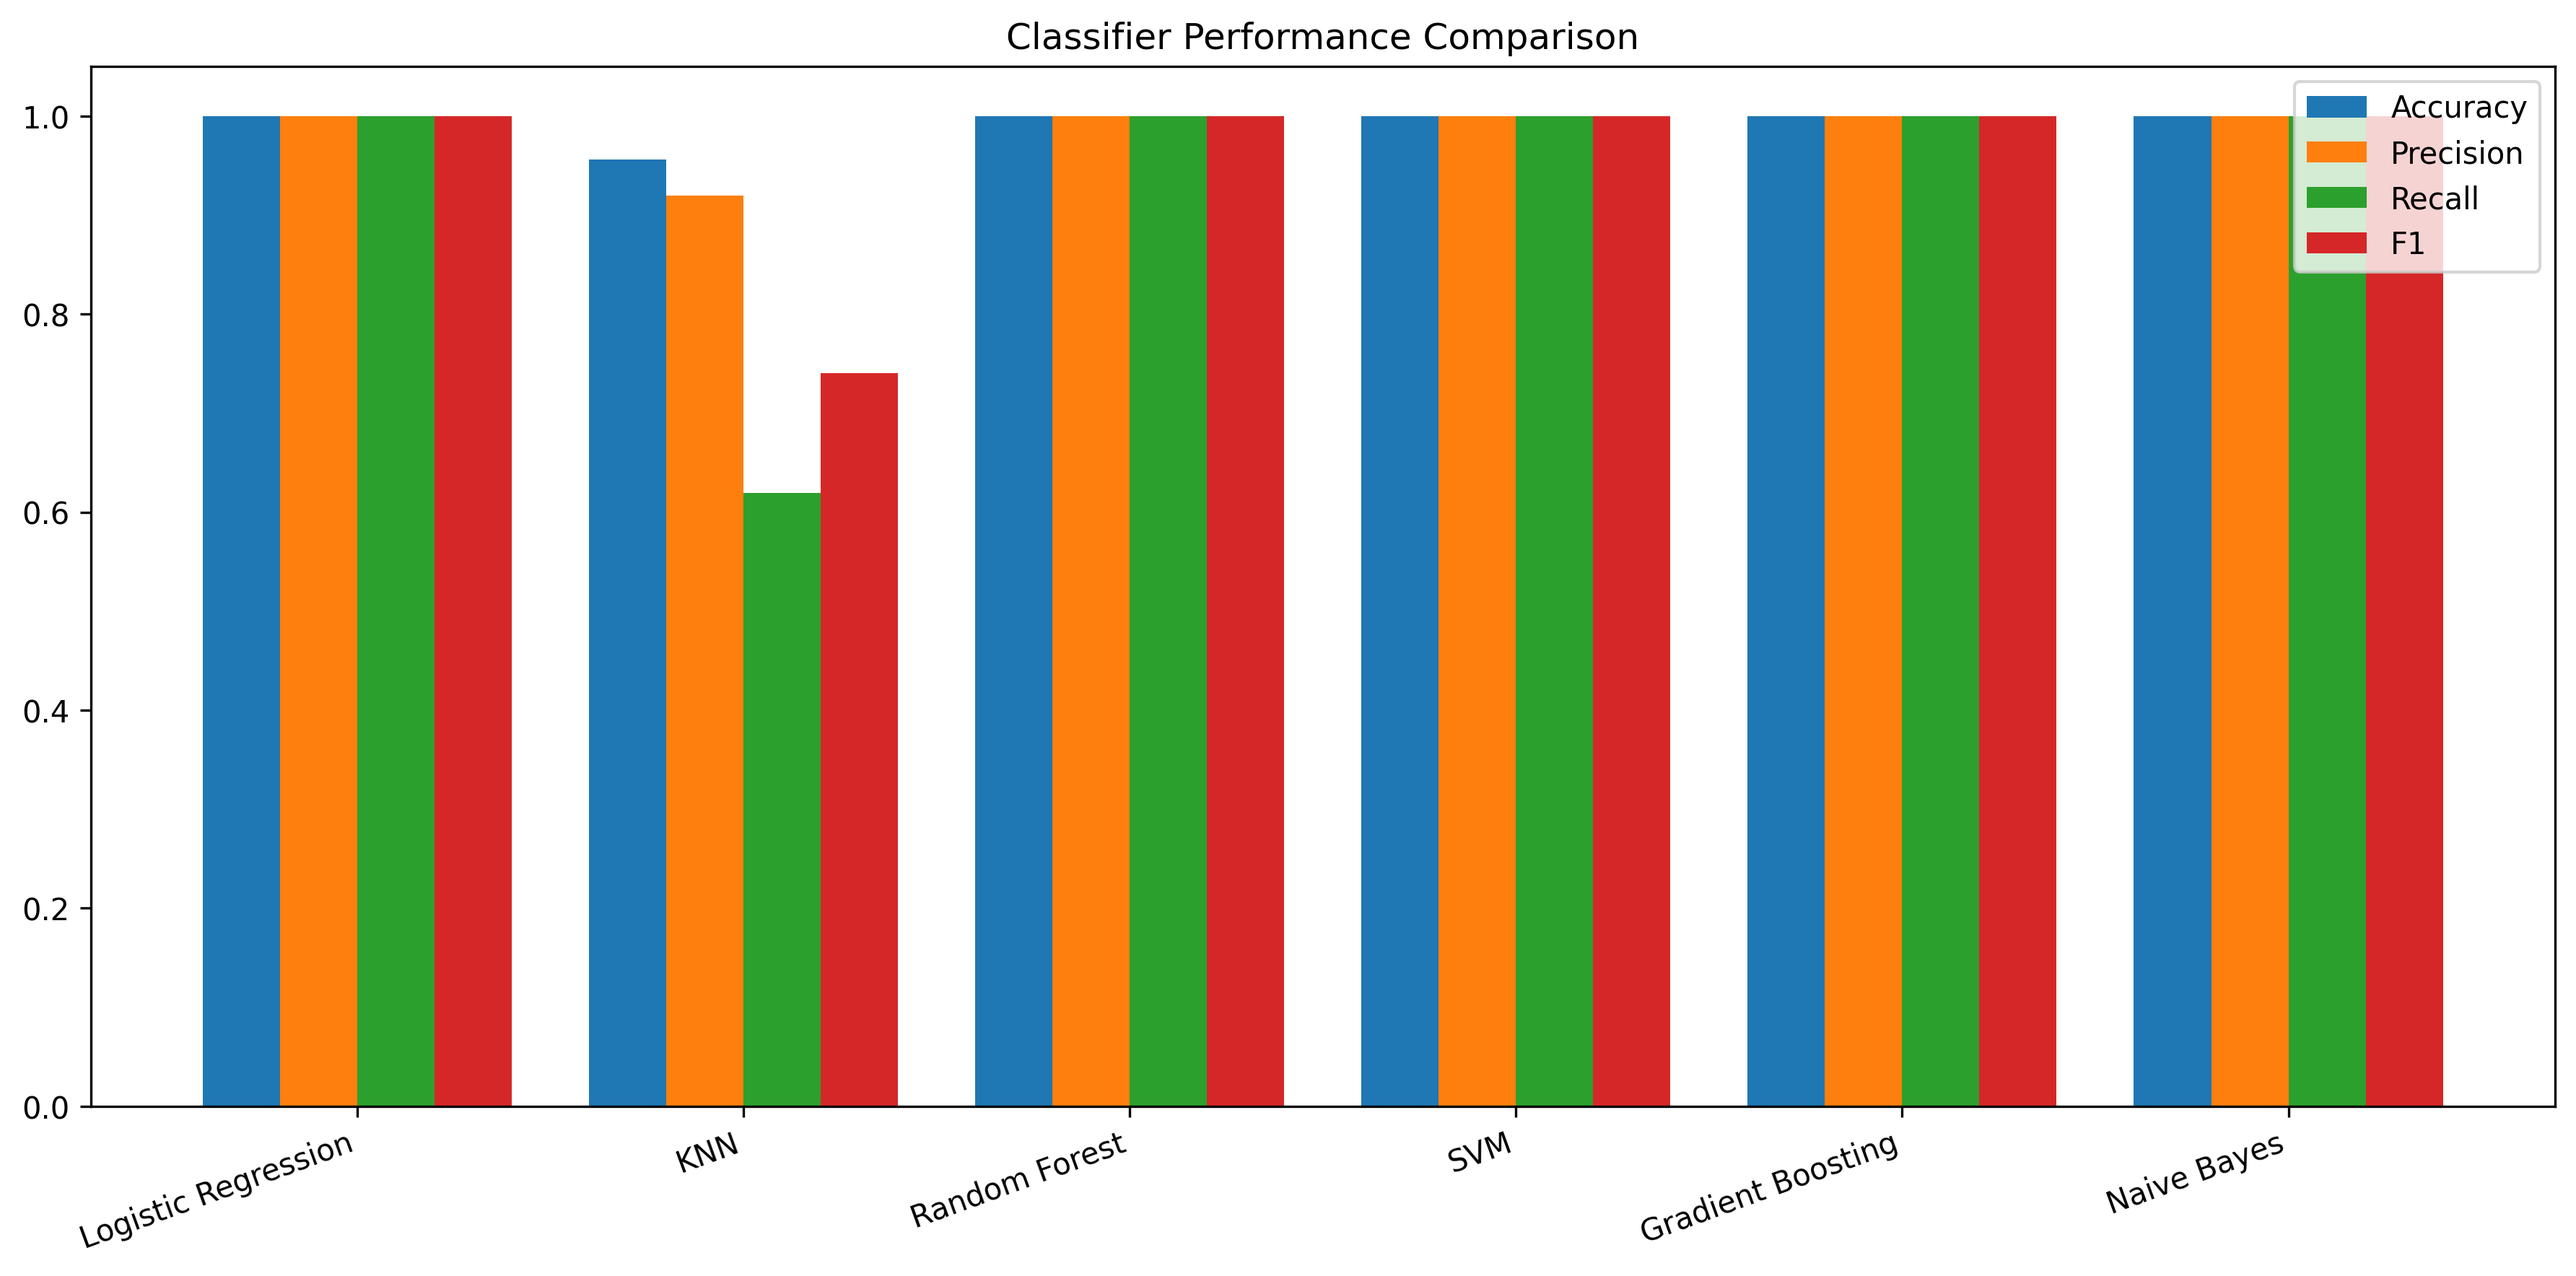
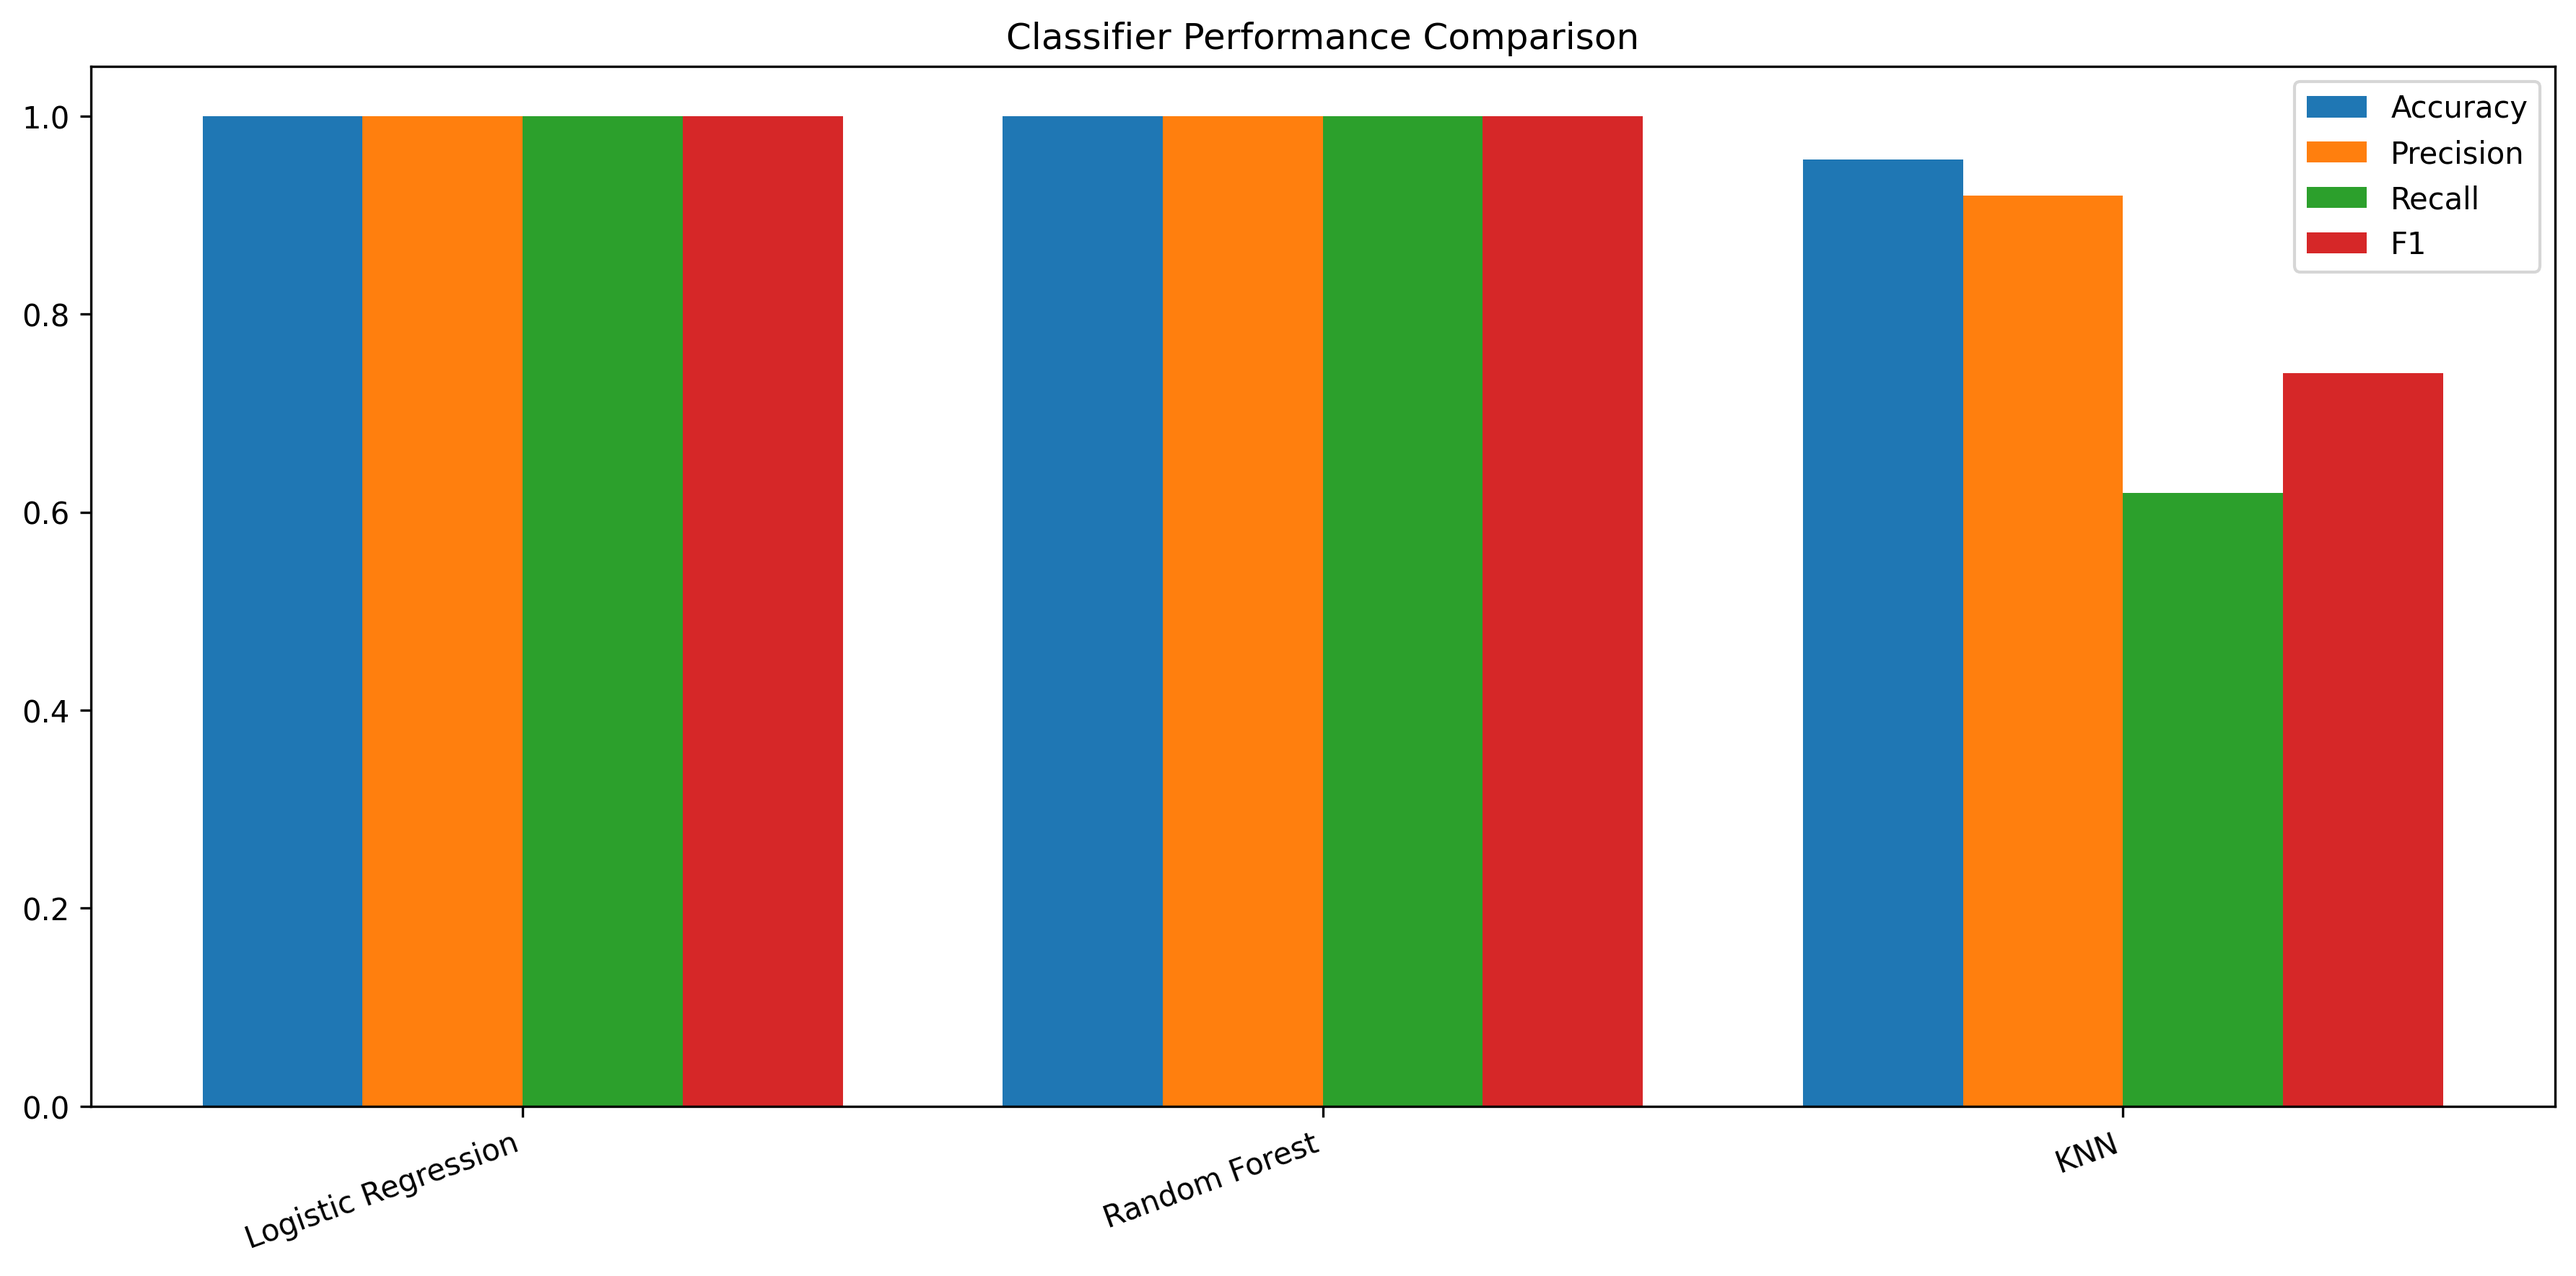
modify classifiers

diff --git a/ml_classes.py b/ml_classes.py
@@ -46,7 +46,7 @@ class DataProcessor:
         df = pd.read_csv(self.filepath)
         df = df.dropna()
 
-        # Label cleaning
+        # Robust label cleaning
         labels = df.iloc[:, -1]
         if labels.dtype == 'object':
             labels = labels.str.strip().str.lower().replace({
@@ -122,9 +122,8 @@ class Classifier:
 
     def train_models(self, model_names: list[str] | None = None) -> None:
         """
-        Train specified models. 
+        Train specified models. If model_names is None, trains all available models.
         """
-        # Define all available models and their configurations
         all_models = {
             'Logistic Regression': (LogisticRegression(max_iter=2000, random_state=RANDOM_STATE), True),
             'KNN': (KNeighborsClassifier(n_neighbors=5), True),
@@ -248,7 +247,6 @@ class Evaluator:
         if importance is None: return
 
         features = self.classifier.data_processor.df.drop(columns=['label']).columns
-        # Sort
         indices = np.argsort(importance)[::-1]
         sorted_feats = [features[i] for i in indices]
         sorted_imps = importance[indices]
@@ -263,7 +261,6 @@ class Evaluator:
     def plot_learning_curve(self, classifier_name: str, filename: str) -> None:
         if classifier_name not in self.results: return
         
-        # Prepare estimator clone
         best_meta = self.results[classifier_name]
         estimator = clone(best_meta['model'])
         

diff --git a/dataset1/dataset_1_code.py b/dataset1/dataset_1_code.py
@@ -1,26 +1,35 @@
+import sys
+import os
+
+current_dir = os.path.dirname(os.path.abspath(__file__))
+parent_dir = os.path.dirname(current_dir)
+sys.path.append(parent_dir)
+
+
 from ml_classes import DataProcessor, Classifier, Evaluator
 
 def main() -> None:
+    print("=== DATASET 1 ANALYSIS ===")
     
+    csv_path = os.path.join(current_dir, 'dataset_1.csv')
+
     # 1. Process
-    processor = DataProcessor('dataset1/dataset_1.csv')
+    processor = DataProcessor(csv_path)
     processor.clean_data()
     processor.plot_correlation_matrix('dataset1_correlation_matrix.png')
     processor.split_and_scale()
 
-    # 2. Train -  Logistic Regression, Random Forest, and KNN 
+    # 2. Train - ONLY specific models
     classifier = Classifier(processor)
     classifier.train_models(['Logistic Regression', 'Random Forest', 'KNN'])
 
     # 3. Evaluate
     evaluator = Evaluator(classifier)
     evaluator.print_summary()
-    
-    # Generates the combined matrix file
     evaluator.plot_confusion_matrices('dataset1_confusion_matrix')
     evaluator.plot_comparison('dataset1_classifier_comparison.png')
     
-    # 4. Feature Importance for Cost Reduction
+    # 4. Feature Importance (Cost Reduction)
     evaluator.plot_feature_importance('dataset1_feature_importance.png')
 
 if __name__ == '__main__':

diff --git a/dataset2/dataset_2_code.py b/dataset2/dataset_2_code.py
@@ -1,26 +1,34 @@
+import sys
+import os
+
+current_dir = os.path.dirname(os.path.abspath(__file__))
+parent_dir = os.path.dirname(current_dir)
+sys.path.append(parent_dir)
+
 from ml_classes import DataProcessor, Classifier, Evaluator
 
 def main() -> None:
+    print("=== DATASET 2 ANALYSIS ===")
+    
+    csv_path = os.path.join(current_dir, 'dataset_2.csv')
     
     # 1. Process
-    processor = DataProcessor('dataset2/dataset_2.csv')
+    processor = DataProcessor(csv_path)
     processor.clean_data()
     processor.plot_correlation_matrix('dataset2_correlation_matrix.png')
     processor.split_and_scale()
 
-    # 2. Train - Trains all available models 
+    # 2. Train - All models
     classifier = Classifier(processor)
     classifier.train_models() 
 
     # 3. Evaluate
     evaluator = Evaluator(classifier)
     evaluator.print_summary()
-    
-    # Generates the combined matrix file
     evaluator.plot_confusion_matrices('dataset2_confusion_matrix')
     evaluator.plot_comparison('dataset2_classifier_comparison.png')
     
-    # 4. Learning Curve 
+    # 4. Learning Curve for Sample Size
     best_name, _ = evaluator.get_best_classifier()
     print(f"\nGenerating Learning Curve for {best_name}...")
     evaluator.plot_learning_curve(best_name, 'dataset2_learning_curve.png')
